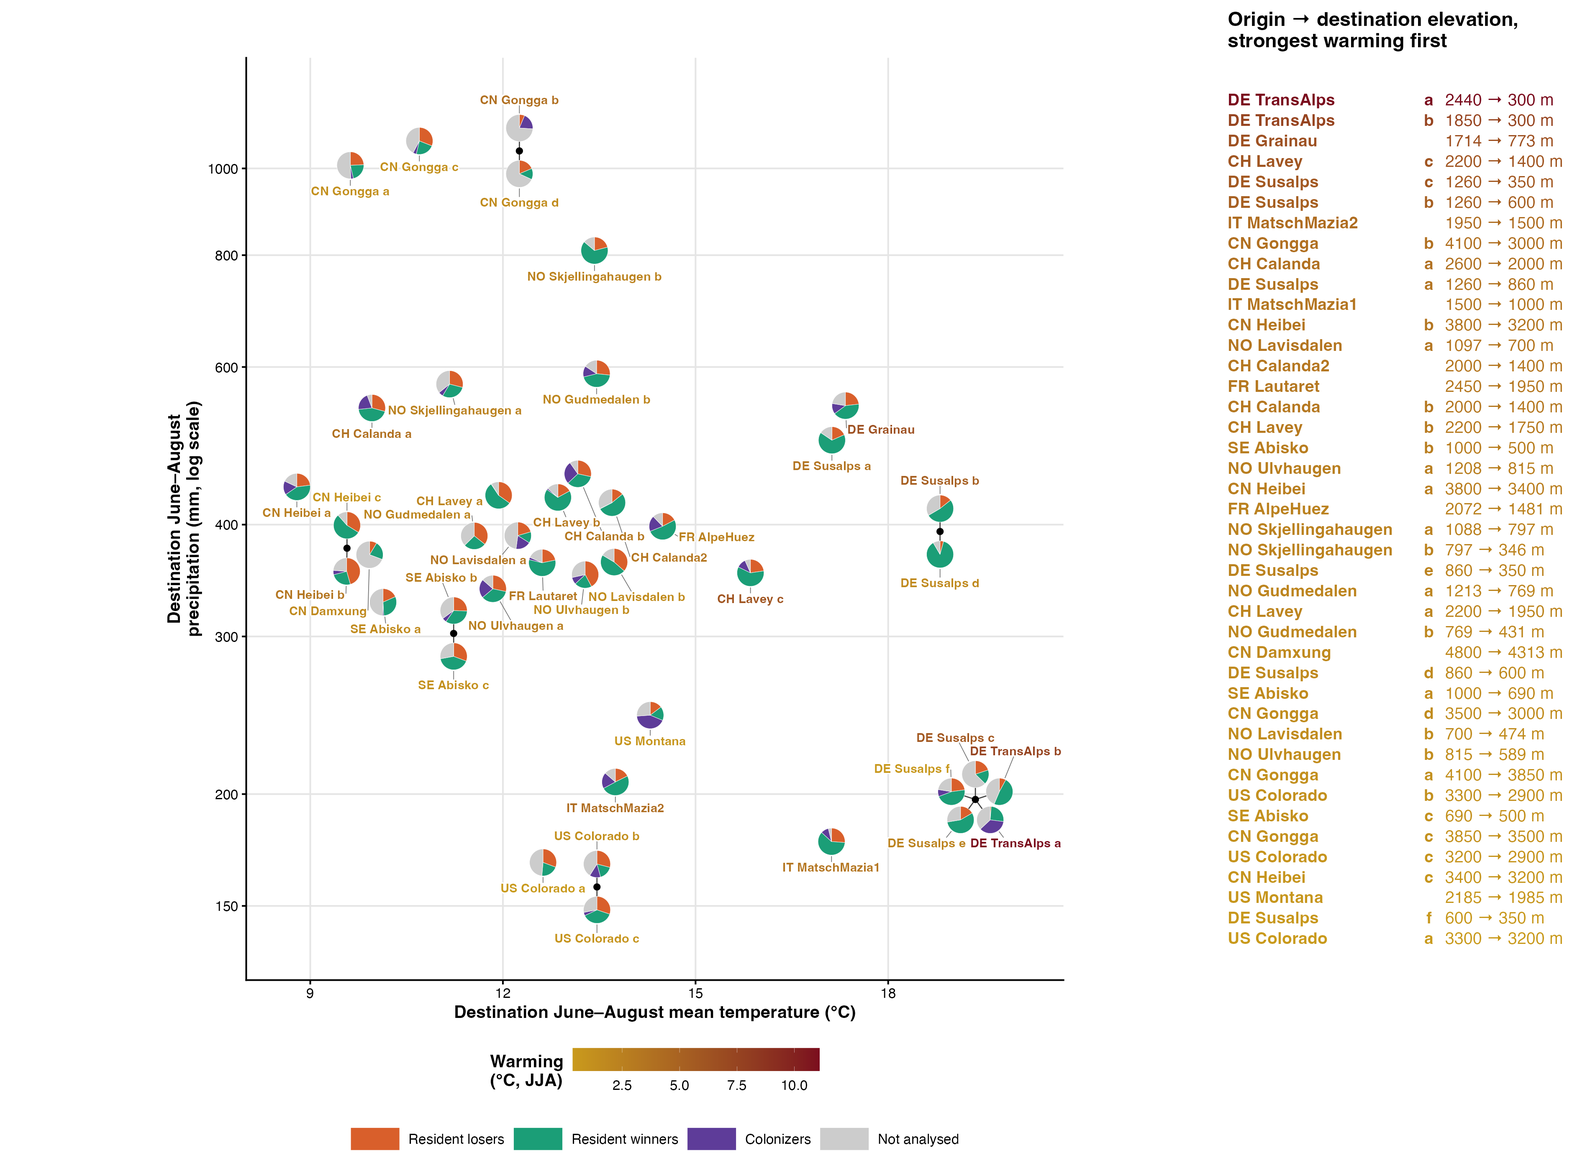
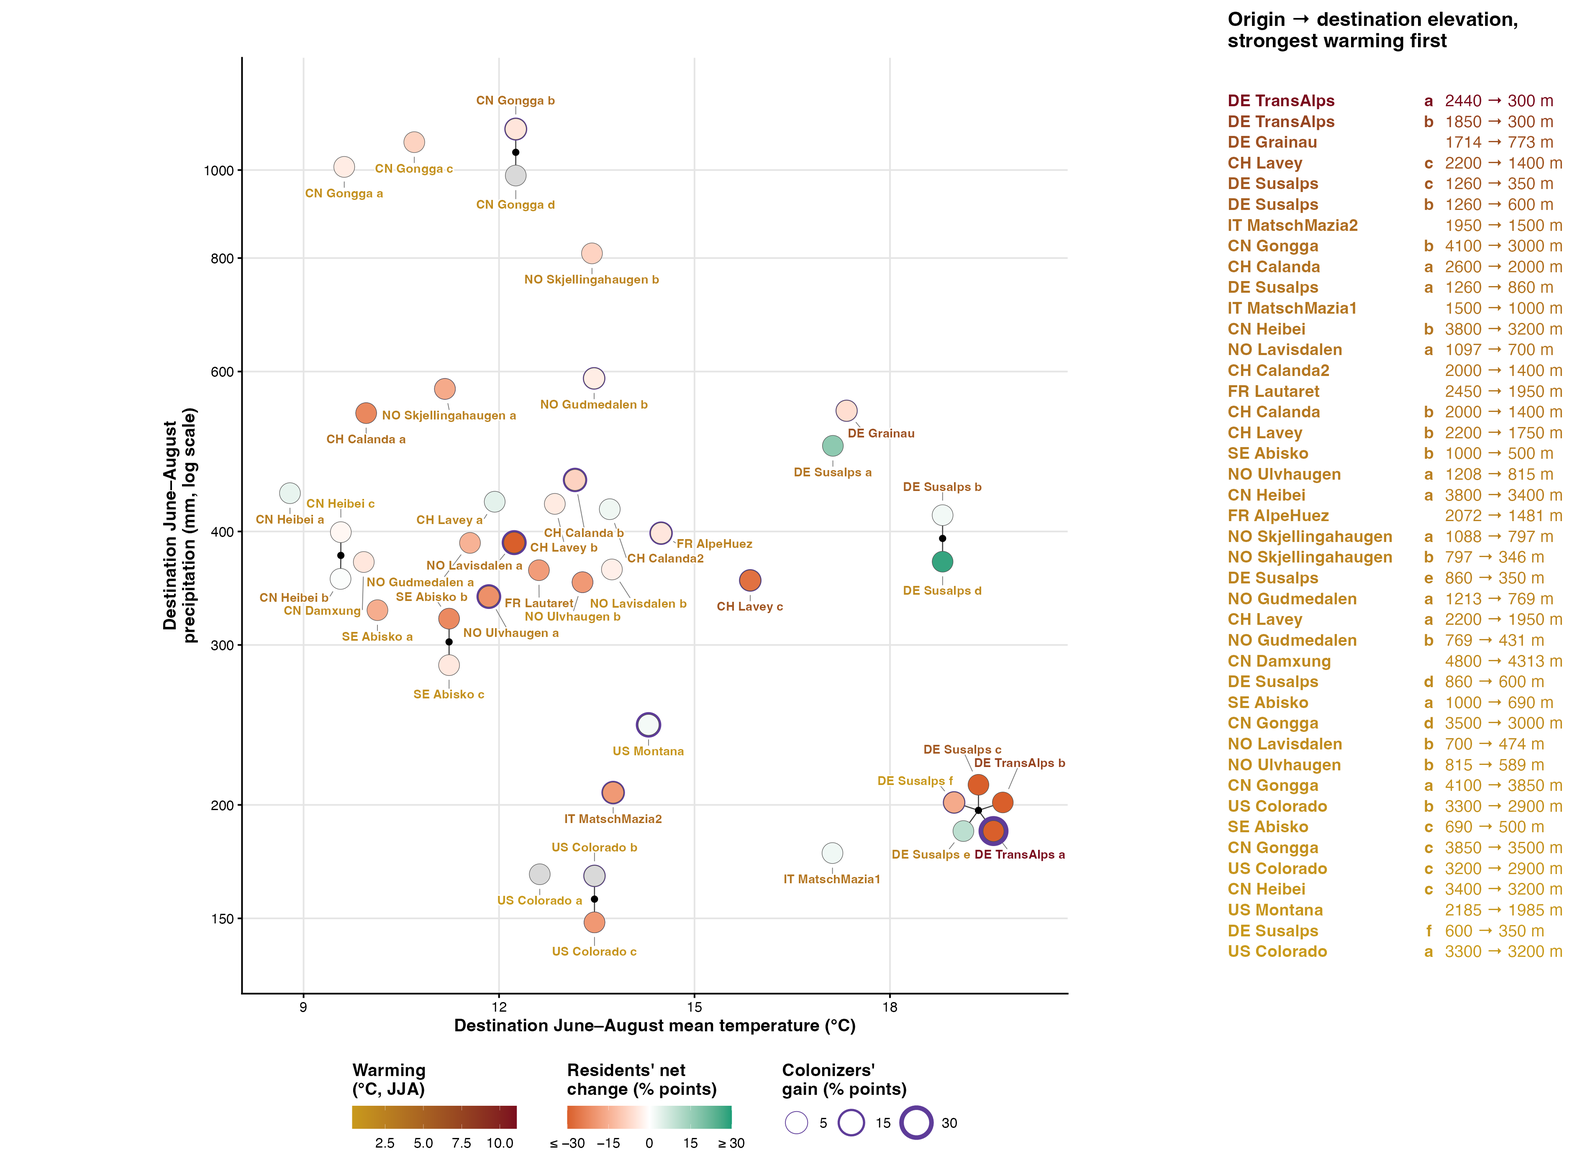
step 10: Fig 4 as discs of the modelled effects (residents' net change, colonizers' gain ring); cover pies dropped, Fig S10 pies unchanged

diff --git a/reports/10_figures.md b/reports/10_figures.md
@@ -1,6 +1,6 @@
 # Step 10: Figures, appendix and report
 
-Draws what no earlier step produced: Fig 4, the 42 experiments in climate space with one pie per experiment splitting the warmed turf's relative cover, years 3 and later, among resident losers and winners (by the sign of their net strength from year 3 on), colonizers (net warmed cover above zero) and what was not analysed (species outside the pools, unidentified and genus-level records) (Bills, 2 Nov); Fig S10 the same map with the pies counting species; Fig S1 the data flow; Fig S3 and Table S3 the phylogenetic axes; Fig S4 the predictors before standardisation with the niche checks; Tables S1, S2, S4 and S5. Copies the reviewed figures of steps 03 to 07f under their final numbers (seven main figures, Bills 2 Nov; Fig 7 the coefficients of the climate + abundance, Height and LDMC models, residents beside colonizers). Pies are drawn to one radius at their destination climate; the 15 experiments that share a destination climate (6 points) fan out around a black dot at that climate on short lines; no two pies overlap (0 pies of different climates had to be pushed apart). Each pie is named by its gradient (with a letter where a gradient has several experiments), coloured by warming; the key beside the figure gives each one's origin and destination elevation.
+Draws what no earlier step produced: Fig 4, the 42 experiments in climate space with one disc per experiment for the effects the ladders model (512 resident and 110 colonizer effects, steps 05 and 07c): its fill the residents' net change, the sum of their strengths with the sign kept, its purple ring the colonizers' total warmed cover, both in percentage points of the warmed turf from year 3 on (Bills, 3 Nov); Fig S10 the same map with pies counting resident losers and winners (by the sign of their net strength from year 3 on) and colonizers (net warmed cover above zero), all classified effects; Fig S1 the data flow; Fig S3 and Table S3 the phylogenetic axes; Fig S4 the predictors before standardisation with the niche checks; Tables S1, S2, S4 and S5. Copies the reviewed figures of steps 03 to 07f under their final numbers (seven main figures, Bills 2 Nov; Fig 7 the coefficients of the climate + abundance, Height and LDMC models, residents beside colonizers). Pies and discs sit at their destination climate; the 15 experiments that share a destination climate (6 points) fan out around a black dot at that climate on short lines; no two pies or discs overlap (0 pies of different climates had to be pushed apart). Each pie is named by its gradient (with a letter where a gradient has several experiments), coloured by warming; the key beside the figure gives each one's origin and destination elevation. The ring key is drawn in millimetres and matched to the rings through the drawn panel's scale (39.55 mm per °C).
 
 ## Counts
 
@@ -15,57 +15,62 @@ Draws what no earlier step produced: Fig 4, the 42 experiments in climate space 
 | experiments with colonizers | 28 |
 | experiments without purple | 14 |
 | species analysed (residents or colonizers) | 426 |
+| Fig 4: resident ladder effects | 512 |
+| Fig 4: colonizer ladder effects | 110 |
+| Fig 4: experiments with modelled residents | 39 |
+| Fig 4: experiments with a net resident loss | 29 |
+| Fig 4: experiments with a colonizer gain | 22 |
 
-## Fig 4 and Fig S10 pies
+## Fig 4 discs and Fig S10 pies
 
-Cover shares (Fig 4) in per cent of the warmed turf; species counts (Fig S10) in brackets.
+Fig 4: the modelled residents' net change and the colonizers' gain, percentage points of the warmed turf (empty: no modelled residents). Fig S10: species counts.
 
-| experiment_id | name | elevations | T (°C) | P (mm) | W (°C) | Resident losers | Resident winners | Colonizers | Not analysed |
-| --- | --- | --- | --- | --- | --- | --- | --- | --- | --- |
-| CH_Calanda::Pea::Cal | CH Calanda a | 2600 → 2000 m | 10 | 540 | 3.8 | 29% (20) | 44% (8) | 21% (30) | 6% |
-| CH_Calanda::Cal::Nes | CH Calanda b | 2000 → 1400 m | 13.2 | 456 | 3.2 | 28% (35) | 35% (14) | 27% (23) | 10% |
-| CH_Calanda2::Cal::Nes | CH Calanda2 | 2000 → 1400 m | 13.7 | 423 | 3.2 | 14% (27) | 53% (18) | 0% (9) | 32% |
-| CH_Lavey::RIO::CRE | CH Lavey a | 2200 → 1950 m | 11.9 | 431 | 2.1 | 35% (25) | 56% (17) | 0% (2) | 9% |
-| CH_Lavey::RIO::MAR | CH Lavey b | 2200 → 1750 m | 12.9 | 429 | 3 | 17% (27) | 68% (15) | 2% (9) | 13% |
-| CH_Lavey::RIO::PRA | CH Lavey c | 2200 → 1400 m | 15.9 | 353 | 6 | 23% (34) | 60% (8) | 11% (13) | 7% |
-| CN_Damxung::HIGH::LOW | CN Damxung | 4800 → 4313 m | 9.9 | 370 | 1.7 | 9% (19) | 22% (1) | 0% (0) | 69% |
-| CN_Gongga::H::A | CN Gongga a | 4100 → 3850 m | 9.6 | 1008 | 1.2 | 24% (13) | 22% (3) | 3% (7) | 50% |
-| CN_Gongga::H::L | CN Gongga b | 4100 → 3000 m | 12.3 | 1046 | 3.9 | 6% (16) | 0% (0) | 20% (7) | 74% |
-| CN_Gongga::A::M | CN Gongga c | 3850 → 3500 m | 10.7 | 1073 | 1.1 | 31% (15) | 23% (10) | 4% (7) | 42% |
-| CN_Gongga::M::L | CN Gongga d | 3500 → 3000 m | 12.3 | 1046 | 1.6 | 18% (14) | 13% (5) | 0% (0) | 68% |
-| CN_Heibei::3800::3400 | CN Heibei a | 3800 → 3400 m | 8.8 | 441 | 2.6 | 23% (7) | 42% (8) | 17% (10) | 18% |
-| CN_Heibei::3800::3200 | CN Heibei b | 3800 → 3200 m | 9.6 | 376 | 3.4 | 46% (9) | 25% (6) | 5% (8) | 24% |
-| CN_Heibei::3400::3200 | CN Heibei c | 3400 → 3200 m | 9.6 | 376 | 0.8 | 34% (20) | 55% (10) | 0% (0) | 12% |
-| DE_Grainau::HIGH::LOW | DE Grainau | 1714 → 773 m | 17.3 | 543 | 6.4 | 23% (23) | 42% (15) | 13% (9) | 22% |
-| DE_Susalps::EB::GW | DE Susalps a | 1260 → 860 m | 17.1 | 497 | 3.6 | 18% (17) | 66% (9) | 0% (0) | 16% |
-| DE_Susalps::EB::FE | DE Susalps b | 1260 → 600 m | 18.8 | 393 | 5.2 | 14% (21) | 52% (5) | 0% (0) | 33% |
-| DE_Susalps::EB::BT | DE Susalps c | 1260 → 350 m | 19.4 | 197 | 5.8 | 20% (22) | 17% (4) | 0% (0) | 63% |
-| DE_Susalps::GW::FE | DE Susalps d | 860 → 600 m | 18.8 | 393 | 1.7 | 4% (18) | 87% (9) | 0% (0) | 8% |
-| DE_Susalps::GW::BT | DE Susalps e | 860 → 350 m | 19.4 | 197 | 2.2 | 17% (22) | 56% (5) | 0% (0) | 28% |
-| DE_Susalps::FE::BT | DE Susalps f | 600 → 350 m | 19.4 | 197 | 0.6 | 23% (5) | 46% (3) | 8% (4) | 22% |
-| DE_TransAlps::FP::BT | DE TransAlps a | 2440 → 300 m | 19.4 | 197 | 11.1 | 1% (18) | 26% (1) | 36% (8) | 37% |
-| DE_TransAlps::SP::BT | DE TransAlps b | 1850 → 300 m | 19.4 | 197 | 7.4 | 8% (22) | 48% (7) | 0% (0) | 44% |
-| FR_AlpeHuez::HIGH::LOW | FR AlpeHuez | 2072 → 1481 m | 14.5 | 398 | 2.4 | 17% (27) | 52% (8) | 19% (13) | 12% |
-| FR_Lautaret::G::L | FR Lautaret | 2450 → 1950 m | 12.6 | 363 | 3.2 | 22% (23) | 57% (12) | 3% (9) | 18% |
-| IT_MatschMazia1::High::Low | IT MatschMazia1 | 1500 → 1000 m | 17.1 | 177 | 3.4 | 26% (19) | 61% (9) | 9% (3) | 4% |
-| IT_MatschMazia2::High::Low | IT MatschMazia2 | 1950 → 1500 m | 13.8 | 206 | 4.1 | 18% (8) | 49% (5) | 19% (15) | 14% |
-| NO_Gudmedalen::Gudmedalen::Rambera | NO Gudmedalen a | 1213 → 769 m | 11.6 | 389 | 2.1 | 36% (14) | 27% (11) | 0% (0) | 37% |
-| NO_Gudmedalen::Rambera::Arhelleren | NO Gudmedalen b | 769 → 431 m | 13.5 | 590 | 1.9 | 27% (13) | 45% (8) | 13% (8) | 16% |
-| NO_Lavisdalen::Lavisdalen::Hogsete | NO Lavisdalen a | 1097 → 700 m | 12.2 | 389 | 3.3 | 20% (22) | 13% (5) | 18% (7) | 48% |
-| NO_Lavisdalen::Hogsete::Vikesland | NO Lavisdalen b | 700 → 474 m | 13.7 | 363 | 1.5 | 37% (11) | 47% (6) | 0% (0) | 16% |
-| NO_Skjellingahaugen::Skjellingahaugen::Veskre | NO Skjellingahaugen a | 1088 → 797 m | 11.2 | 574 | 2.3 | 29% (14) | 30% (4) | 6% (7) | 36% |
-| NO_Skjellingahaugen::Veskre::Ovstedal | NO Skjellingahaugen b | 797 → 346 m | 13.4 | 810 | 2.3 | 21% (18) | 65% (10) | 0% (0) | 14% |
-| NO_Ulvhaugen::Ulvhaugen::Alrust | NO Ulvhaugen a | 1208 → 815 m | 11.8 | 339 | 2.6 | 28% (18) | 36% (9) | 23% (12) | 14% |
-| NO_Ulvhaugen::Alrust::Fauske | NO Ulvhaugen b | 815 → 589 m | 13.3 | 352 | 1.4 | 42% (16) | 21% (6) | 8% (6) | 28% |
-| SE_Abisko::High::Mid | SE Abisko a | 1000 → 690 m | 10.1 | 328 | 1.6 | 18% (6) | 31% (3) | 1% (3) | 49% |
-| SE_Abisko::High::Low | SE Abisko b | 1000 → 500 m | 11.2 | 302 | 2.7 | 26% (6) | 34% (3) | 5% (3) | 35% |
-| SE_Abisko::Mid::Low | SE Abisko c | 690 → 500 m | 11.2 | 302 | 1.1 | 31% (8) | 41% (3) | 0% (0) | 28% |
-| US_Colorado::mo::pf | US Colorado a | 3300 → 3200 m | 12.6 | 168 | 0.4 | 31% (6) | 21% (5) | 0% (0) | 49% |
-| US_Colorado::mo::um | US Colorado b | 3300 → 2900 m | 13.5 | 158 | 1.2 | 29% (9) | 17% (2) | 13% (10) | 41% |
-| US_Colorado::pf::um | US Colorado c | 3200 → 2900 m | 13.5 | 158 | 0.8 | 30% (7) | 38% (7) | 4% (5) | 28% |
-| US_Montana::High::Low | US Montana | 2185 → 1985 m | 14.3 | 245 | 0.7 | 15% (9) | 17% (4) | 43% (17) | 26% |
+| experiment_id | name | elevations | T (°C) | P (mm) | W (°C) | Net change | Colonizers' gain | Resident losers | Resident winners | Colonizers |
+| --- | --- | --- | --- | --- | --- | --- | --- | --- | --- | --- |
+| CH_Calanda::Pea::Cal | CH Calanda a | 2600 → 2000 m | 10 | 540 | 3.8 | -22.5 | 1.3 | 20 | 8 | 30 |
+| CH_Calanda::Cal::Nes | CH Calanda b | 2000 → 1400 m | 13.2 | 456 | 3.2 | -8.3 | 11.7 | 35 | 14 | 23 |
+| CH_Calanda2::Cal::Nes | CH Calanda2 | 2000 → 1400 m | 13.7 | 423 | 3.2 | 2.4 | 0.1 | 27 | 18 | 9 |
+| CH_Lavey::RIO::CRE | CH Lavey a | 2200 → 1950 m | 11.9 | 431 | 2.1 | 4.1 | 0.0 | 25 | 17 | 2 |
+| CH_Lavey::RIO::MAR | CH Lavey b | 2200 → 1750 m | 12.9 | 429 | 3 | -3.8 | 0.2 | 27 | 15 | 9 |
+| CH_Lavey::RIO::PRA | CH Lavey c | 2200 → 1400 m | 15.9 | 353 | 6 | -26.8 | 5.3 | 34 | 8 | 13 |
+| CN_Damxung::HIGH::LOW | CN Damxung | 4800 → 4313 m | 9.9 | 370 | 1.7 | -4.5 | 0.0 | 19 | 1 | 0 |
+| CN_Gongga::H::A | CN Gongga a | 4100 → 3850 m | 9.6 | 1008 | 1.2 | -3.6 | 0.0 | 13 | 3 | 7 |
+| CN_Gongga::H::L | CN Gongga b | 4100 → 3000 m | 12.3 | 1046 | 3.9 | -4.8 | 6.8 | 16 | 0 | 7 |
+| CN_Gongga::A::M | CN Gongga c | 3850 → 3500 m | 10.7 | 1073 | 1.1 | -8.3 | 0.0 | 15 | 10 | 7 |
+| CN_Gongga::M::L | CN Gongga d | 3500 → 3000 m | 12.3 | 1046 | 1.6 |  | 0.0 | 14 | 5 | 0 |
+| CN_Heibei::3800::3400 | CN Heibei a | 3800 → 3400 m | 8.8 | 441 | 2.6 | 3.4 | 0.0 | 7 | 8 | 10 |
+| CN_Heibei::3800::3200 | CN Heibei b | 3800 → 3200 m | 9.6 | 376 | 3.4 | 0.5 | 0.0 | 9 | 6 | 8 |
+| CN_Heibei::3400::3200 | CN Heibei c | 3400 → 3200 m | 9.6 | 376 | 0.8 | -1.6 | 0.0 | 20 | 10 | 0 |
+| DE_Grainau::HIGH::LOW | DE Grainau | 1714 → 773 m | 17.3 | 543 | 6.4 | -6.1 | 4.1 | 23 | 15 | 9 |
+| DE_Susalps::EB::GW | DE Susalps a | 1260 → 860 m | 17.1 | 497 | 3.6 | 17.0 | 0.0 | 17 | 9 | 0 |
+| DE_Susalps::EB::FE | DE Susalps b | 1260 → 600 m | 18.8 | 393 | 5.2 | 1.9 | 0.0 | 21 | 5 | 0 |
+| DE_Susalps::EB::BT | DE Susalps c | 1260 → 350 m | 19.4 | 197 | 5.8 | -34.6 | 0.0 | 22 | 4 | 0 |
+| DE_Susalps::GW::FE | DE Susalps d | 860 → 600 m | 18.8 | 393 | 1.7 | 28.0 | 0.0 | 18 | 9 | 0 |
+| DE_Susalps::GW::BT | DE Susalps e | 860 → 350 m | 19.4 | 197 | 2.2 | 10.0 | 0.0 | 22 | 5 | 0 |
+| DE_Susalps::FE::BT | DE Susalps f | 600 → 350 m | 19.4 | 197 | 0.6 | -16.0 | 5.4 | 5 | 3 | 4 |
+| DE_TransAlps::FP::BT | DE TransAlps a | 2440 → 300 m | 19.4 | 197 | 11.1 | -61.8 | 30.0 | 18 | 1 | 8 |
+| DE_TransAlps::SP::BT | DE TransAlps b | 1850 → 300 m | 19.4 | 197 | 7.4 | -52.0 | 0.0 | 22 | 7 | 0 |
+| FR_AlpeHuez::HIGH::LOW | FR AlpeHuez | 2072 → 1481 m | 14.5 | 398 | 2.4 | -4.6 | 8.4 | 27 | 8 | 13 |
+| FR_Lautaret::G::L | FR Lautaret | 2450 → 1950 m | 12.6 | 363 | 3.2 | -18.6 | 0.8 | 23 | 12 | 9 |
+| IT_MatschMazia1::High::Low | IT MatschMazia1 | 1500 → 1000 m | 17.1 | 177 | 3.4 | 2.2 | 0.0 | 19 | 9 | 3 |
+| IT_MatschMazia2::High::Low | IT MatschMazia2 | 1950 → 1500 m | 13.8 | 206 | 4.1 | -19.2 | 8.7 | 8 | 5 | 15 |
+| NO_Gudmedalen::Gudmedalen::Rambera | NO Gudmedalen a | 1213 → 769 m | 11.6 | 389 | 2.1 | -14.5 | 0.0 | 14 | 11 | 0 |
+| NO_Gudmedalen::Rambera::Arhelleren | NO Gudmedalen b | 769 → 431 m | 13.5 | 590 | 1.9 | -3.4 | 5.5 | 13 | 8 | 8 |
+| NO_Lavisdalen::Lavisdalen::Hogsete | NO Lavisdalen a | 1097 → 700 m | 12.2 | 389 | 3.3 | -37.3 | 13.6 | 22 | 5 | 7 |
+| NO_Lavisdalen::Hogsete::Vikesland | NO Lavisdalen b | 700 → 474 m | 13.7 | 363 | 1.5 | -2.9 | 0.0 | 11 | 6 | 0 |
+| NO_Skjellingahaugen::Skjellingahaugen::Veskre | NO Skjellingahaugen a | 1088 → 797 m | 11.2 | 574 | 2.3 | -16.1 | 2.0 | 14 | 4 | 7 |
+| NO_Skjellingahaugen::Veskre::Ovstedal | NO Skjellingahaugen b | 797 → 346 m | 13.4 | 810 | 2.3 | -8.2 | 0.0 | 18 | 10 | 0 |
+| NO_Ulvhaugen::Ulvhaugen::Alrust | NO Ulvhaugen a | 1208 → 815 m | 11.8 | 339 | 2.6 | -20.9 | 12.8 | 18 | 9 | 12 |
+| NO_Ulvhaugen::Alrust::Fauske | NO Ulvhaugen b | 815 → 589 m | 13.3 | 352 | 1.4 | -19.1 | 2.0 | 16 | 6 | 6 |
+| SE_Abisko::High::Mid | SE Abisko a | 1000 → 690 m | 10.1 | 328 | 1.6 | -15.5 | 0.0 | 6 | 3 | 3 |
+| SE_Abisko::High::Low | SE Abisko b | 1000 → 500 m | 11.2 | 302 | 2.7 | -22.2 | 1.3 | 6 | 3 | 3 |
+| SE_Abisko::Mid::Low | SE Abisko c | 690 → 500 m | 11.2 | 302 | 1.1 | -4.3 | 0.0 | 8 | 3 | 0 |
+| US_Colorado::mo::pf | US Colorado a | 3300 → 3200 m | 12.6 | 168 | 0.4 |  | 0.0 | 6 | 5 | 0 |
+| US_Colorado::mo::um | US Colorado b | 3300 → 2900 m | 13.5 | 158 | 1.2 |  | 5.0 | 9 | 2 | 10 |
+| US_Colorado::pf::um | US Colorado c | 3200 → 2900 m | 13.5 | 158 | 0.8 | -19.5 | 1.8 | 7 | 7 | 5 |
+| US_Montana::High::Low | US Montana | 2185 → 1985 m | 14.3 | 245 | 0.7 | 1.6 | 15.2 | 9 | 4 | 17 |
 
-Mean over experiments, per cent of the warmed turf: resident losers 23, resident winners 39, colonizers 8, not analysed 29.
+Median over the experiments with modelled residents: net change -6.1 points; median colonizers' gain where colonizers are modelled 4.6 points.
 
 ## Figures
 
@@ -74,7 +79,7 @@ Mean over experiments, per cent of the warmed turf: resident losers 23, resident
 | Fig 1 | figures/main/fig1.png | Sankey of year-specific classes, residents and colonizers | steps 03, 07a |
 | Fig 2 | figures/main/fig2.png | Residents' classification (Step C) | step 04 |
 | Fig 3 | figures/main/fig3.png | Colonizers' classification (Step C) | step 07b |
-| Fig 4 | figures/main/fig4.png | The experiments in climate space, pies of warmed-turf cover | this step |
+| Fig 4 | figures/main/fig4.png | The experiments in climate space: residents' net change and colonizers' gain, modelled effects | this step |
 | Fig 5 | figures/main/fig5.png | Traits of losers, winners and colonizers (pathways) | step 07f |
 | Fig 6 | figures/main/fig6.png | The residents' ladder | step 06 |
 | Fig 7 | figures/main/fig7.png | Coefficients of the climate + abundance, Height and LDMC models, residents beside colonizers | this step |
@@ -87,7 +92,7 @@ Mean over experiments, per cent of the warmed turf: resident losers 23, resident
 | Fig S7 | figures/appendix/figS7.png | Losing-winning strength, all years | step 02 |
 | Fig S8 | figures/appendix/figS8.png | Year-specific classes, residents in at least 3 gradients | step 03 |
 | Fig S9 | figures/appendix/figS9.png | Strength from year 3 against all years | step 03b |
-| Fig S10 | figures/appendix/figS10.png | Fig 4 with species counts in the pies | this step |
+| Fig S10 | figures/appendix/figS10.png | The experiments in climate space: pies counting losers, winners and colonizers, all effects | this step |
 | Fig S11 | figures/appendix/figS11.png | Where each variance component of the ladder comes from (toy table) | drawn by hand |
 | Fig S12 | figures/appendix/figS12.png | Coefficients, residents | step 05 |
 | Fig S13 | figures/appendix/figS13.png | Metrics per gradient, residents | step 06 |
@@ -138,6 +143,6 @@ None.
 
 - One script for the whole step (Bills, 2 Nov).
 - Seven main figures (Bills, 2 Nov): the colonizers' classification becomes Fig 3, the climate space Fig 4, the pathways Fig 5, the ladder Fig 6, the coefficients of three models Fig 7 (abundance terms drawn per pool, not comparable); the results-dependent Fig 6 and the old Fig S8 dropped; appendix S1 to S19 in the order of the analysis (Bills, 2 Nov); the main figures are written by their own steps.
-- Fig 4's pies split the warmed turf's relative cover (years 3 and later) among Fig 5's classes per experiment, not counts of last-year significance classes; the counts are Fig S10; no purple in the experiments below the colonizer pool-size rule (Bills, 2 Nov).
+- Fig 4 shows the modelled effects as discs, the residents' net change and the colonizers' gain (Bills, 3 Nov; the cover pies of 2 Nov replaced); Fig S10's pies count Fig 5's classes per experiment, not last-year significance classes; no purple in the experiments below the colonizer pool-size rule (Bills, 2 Nov).
 - Coefficients, per-gradient metrics and the random forest stay as residents (a) and colonizers (b) files.
 - `REPORT.html` not rendered: Quarto is not installed.

diff --git a/README.md b/README.md
@@ -178,17 +178,17 @@ Code: [`04_classification.R`](analysis/04_classification.R) · report [04](repor
 
 ## The experiments in climate space
 
-**What and why.** Before the models ask why, the outcomes are laid over the experiments' climate. Each experiment sits at its destination's summer temperature and precipitation; its pie splits the warmed turf's relative cover (years 3 and later) among resident losers and resident winners (the sign of each species' strength in that experiment) and colonizers (net warmed cover above zero), with what was not analysed in grey. Averaged over experiments, resident losers hold 23% of the warmed turf, resident winners 39%, colonizers 8% and the rest 29%.
+**What and why.** Before the models ask why, the outcomes are laid over the experiments' climate, for the species the models use: the ladder rows, species in at least 3 gradients with every property (512 resident and 110 colonizer effects). Each experiment sits at its destination's summer temperature and precipitation. Its disc is coloured by the residents' net change, the sum of their losing-winning strengths with the sign kept, and ringed in purple by the colonizers' gain, their total warmed cover; both are percentage points of the warmed turf from year 3 on. Summing with the sign kept lets sampling noise cancel; a colonizer was never recorded in the origin controls, so its warmed cover is also its change. The modelled residents lose cover in 29 of the 39 experiments where they occur (median -6.1 points); colonizers gain cover in 22 of the 24 experiments with modelled colonizers.
 
-**Decisions.** Cover, not counts, in the main figure; the counts are Fig S10 (2 Nov). Pies at their true climate; experiments sharing a destination fan out around a black dot. No purple where an experiment has fewer than 5 colonizers.
+**Decisions.** The modelled effects only, as discs of net change and colonizer gain, not pies of cover shares (3 Nov): a pie of summed magnitudes would add noise to both sides and imply a closed budget. The counts of losers, winners and colonizers over all classified effects are Fig S10 (2 Nov). Discs and pies at their true climate; experiments sharing a destination fan out around a black dot.
 
 ![Figure 4](figures/main/fig4.png)
 
-**Figure 4.** The experiments in climate space, and the share of the warmed turf held by losers, winners and colonizers. Each pie is one experiment, placed at its destination's June–August mean temperature and June–August precipitation (log scale), both from monthly CHELSA data averaged over the experiment's years. Slices give the share of relative cover in warmed turfs from year 3 on held by resident losers (orange) and resident winners (green), classified by the sign of their losing-winning strength in that experiment, by colonizers with warmed cover above zero (purple), and by species not analysed (grey: species outside the resident and colonizer pools, and records identified only to genus or not at all). Experiments with fewer than five colonizing species have no colonizer slice. Experiments that share a destination fan out around a black dot at the shared climate. Labels name the gradient, with a letter where a gradient holds several experiments, and are coloured by the experimental warming, the difference in June–August temperature between destination and origin; the key on the right gives the origin and destination elevations, from the strongest to the weakest warming. The same map with species counts is Figure S10.
+**Figure 4.** The experiments in climate space, and how much cover the modelled residents lost or gained and the colonizers took. Each disc is one experiment, placed at its destination's June–August mean temperature and June–August precipitation (log scale), both from monthly CHELSA data averaged over the experiment's years. Only the species × experiment effects of the model ladders enter: species found in at least 3 gradients that carry every property. The fill is the residents' net change, the sum of their losing-winning strengths in that experiment, in percentage points of relative cover in warmed turfs from year 3 on: orange where they lost cover, green where they gained, white near zero; changes beyond ±30 points are drawn at full colour, and grey discs have no modelled residents. The purple ring is the colonizers' gain, the summed relative cover of the modelled colonizing species in warmed turfs from year 3 on, its width proportional to the gain; discs without a ring have no modelled colonizers or none with cover. Experiments that share a destination fan out around a black dot at the shared climate. Labels name the gradient, with a letter where a gradient holds several experiments, and are coloured by the experimental warming, the difference in June–August temperature between destination and origin; the key on the right gives the origin and destination elevations, from the strongest to the weakest warming. Pies counting losers, winners and colonizers over all classified effects are Figure S10.
 
 ![Figure S10](figures/appendix/figS10.png)
 
-**Figure S10.** The experiments in climate space with species counts. As Figure 4, but each pie counts species: resident species with a negative (losers) or positive (winners) losing-winning strength from year 3 on in that experiment, and colonizers with warmed cover above zero (703, 301 and 264 species × experiment in total).
+**Figure S10.** The experiments in climate space with species counts. Each pie is one experiment, placed as in Figure 4, and counts all classified species × experiment effects: resident species with a negative (losers, orange) or positive (winners, green) losing-winning strength from year 3 on in that experiment, and colonizing species with warmed cover above zero (purple; 703, 301 and 264 effects in total). Experiments with fewer than five colonizing species have no colonizer slice.
 
 Code: [`10_figures.R`](analysis/10_figures.R) · report [10](reports/10_figures.md)
 
